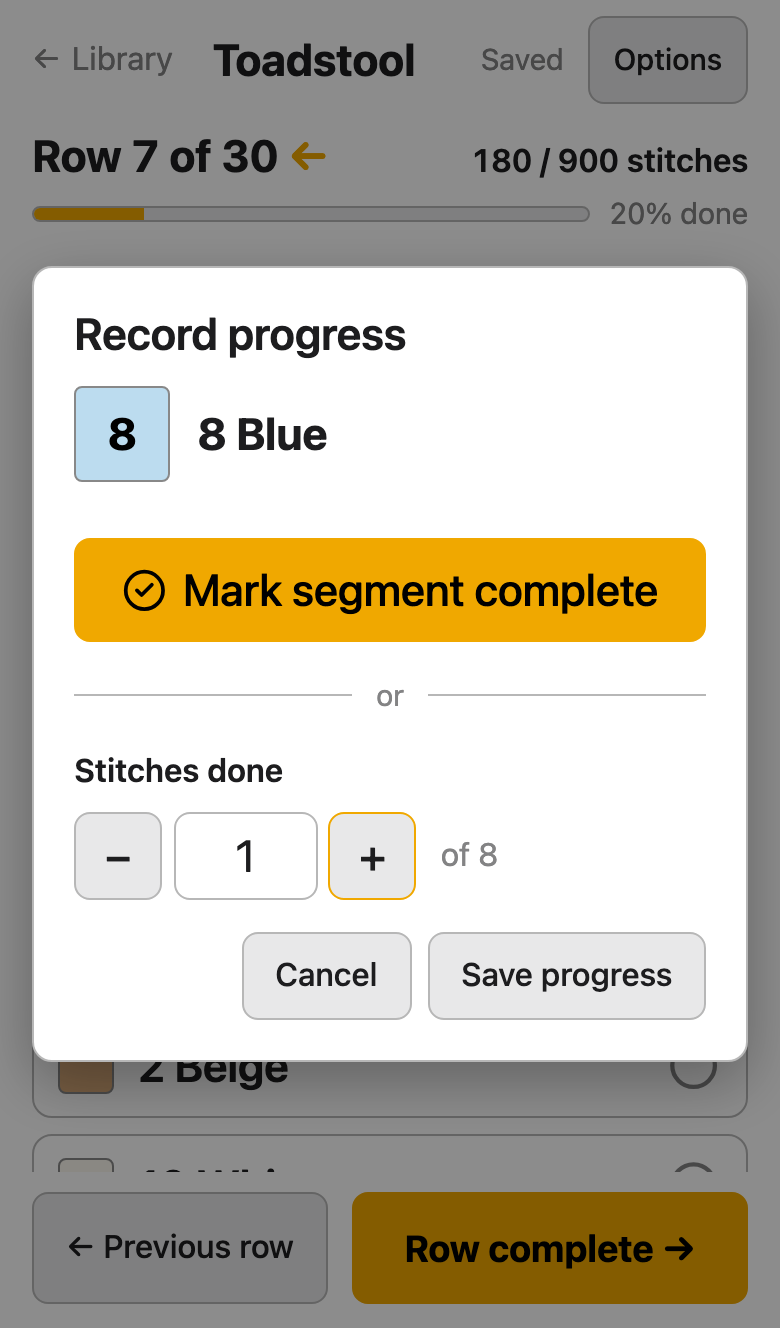
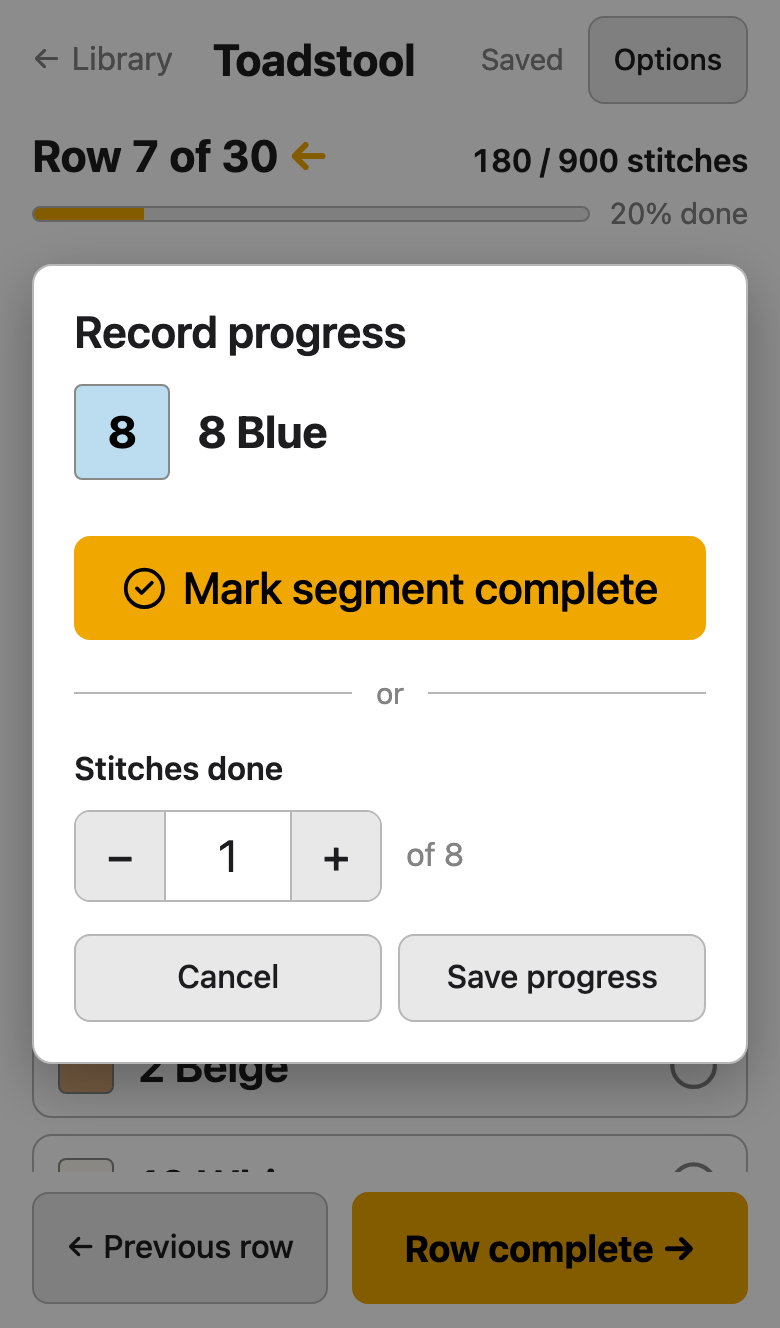
Work: Record progress count as one control; Cancel and Save across the width
The owner found the dialog lopsided (one full-width button over two
pushed right) and the count broken: the number field's own arrows
doubled − and +, and its outlines overlapped in a pill and a circle.

That pill came from Import's colour stepper: both used `.stepper`, and
Import's stylesheet, once loaded by an import, stays for the visit and
restyled this one. The count now has its own classes (segment__count):
−, the number and + in one outline with a divider between each, and no
native spin arrows. Cancel and Save progress share the width half and
half.

The new e2e test opens Import first, as a real visit does, and fails on
the previous commit (border radius 999px). rules.md#css-names records
the clash.

diff --git a/web/e2e/work-chips.spec.ts b/web/e2e/work-chips.spec.ts
@@ -145,6 +145,37 @@ test('the chips follow your place, and a new row starts at the top of the list',
   await expect(tick(page, 1)).toHaveAttribute('aria-pressed', 'false')
 })
 
+test('Record progress: one joined count without arrows of its own, and two buttons across the width', async ({ page }, testInfo) => {
+  // The Import screen's stylesheet loaded first, as after a real import: its colour
+  // stepper must not restyle this one.
+  await page.goto('/#/import')
+  await expect(page.getByRole('heading', { level: 1 })).toBeVisible()
+  await open(page, testInfo.outputPath('busy.alpha'))
+  await chips(page).nth(0).locator('.chip__open').click()
+  const dialog = page.getByRole('dialog', { name: 'Record progress' })
+  const look = await dialog.evaluate((d) => {
+    const css = (el: Element) => getComputedStyle(el)
+    const count = d.querySelector('input')!.parentElement!
+    const buttons = [...count.querySelectorAll('button')]
+    const [cancel, save] = [...d.querySelectorAll('.dialog__buttons button')].map((b) => b.getBoundingClientRect())
+    const body = d.querySelector('.segment__complete')!.getBoundingClientRect()
+    return {
+      countRadius: css(count).borderTopLeftRadius,
+      buttonRadii: buttons.map((b) => css(b).borderTopLeftRadius),
+      buttonBorders: buttons.map((b) => css(b).borderTopWidth),
+      appearance: css(d.querySelector('input')!).appearance,
+      widths: [cancel!.width, save!.width],
+      span: [cancel!.left - body.left, body.right - save!.right],
+    }
+  })
+  expect(look.countRadius).not.toBe('999px')
+  expect(look.buttonRadii).toEqual(['0px', '0px'])
+  expect(look.buttonBorders).toEqual(['0px', '0px'])
+  expect(look.appearance).toBe('textfield')
+  expect(Math.abs(look.widths[0]! - look.widths[1]!)).toBeLessThan(1)
+  expect(look.span.map((x) => Math.abs(x) < 1)).toEqual([true, true])
+})
+
 test('a tap on a stitch of the current row marks it and the stitches before it done', async ({ page }, testInfo) => {
   await open(page, testInfo.outputPath('busy.alpha'))
   // Every row the same height, so a stitch is found from the cell size alone.

diff --git a/web/src/ui/app.css b/web/src/ui/app.css
@@ -1213,29 +1213,61 @@ code {
   font-weight: 600;
 }
 
-.stepper {
-  display: flex;
-  gap: 0.35rem;
+/* The count: − and + joined to the number as one control, one outline with a line between
+   each part. Its own class names: Import's colour stepper is `.stepper`, and its sheet,
+   once loaded, would round this one into a pill. The number has no arrows of its own,
+   since − and + are those. */
+.segment__count {
+  display: inline-flex;
+  border: 1px solid var(--border);
+  border-radius: var(--radius-md);
+  overflow: hidden;
 }
 
-.stepper .button {
+.segment__count .button {
   width: var(--tap);
   padding: 0;
+  border: 0;
+  border-radius: 0;
   font-size: var(--text-lg);
 }
 
-.stepper input {
-  width: 4.5rem;
+.segment__count .button:hover:not(:disabled) {
+  background: var(--raised);
+}
+
+.segment__count input {
+  width: 4rem;
   min-height: var(--tap);
   padding: 0 0.5rem;
-  border: 1px solid var(--border);
-  border-radius: var(--radius-md);
+  border: 0;
+  border-inline: 1px solid var(--border);
+  border-radius: 0;
   background: var(--bg);
   color: var(--text);
   font: inherit;
   font-size: var(--text-lg);
   text-align: center;
   font-variant-numeric: tabular-nums;
+  appearance: textfield;
+  -moz-appearance: textfield;
+}
+
+.segment__count input::-webkit-inner-spin-button,
+.segment__count input::-webkit-outer-spin-button {
+  -webkit-appearance: none;
+  margin: 0;
+}
+
+/* Inside the outline, which clips anything outside it. */
+.segment__count :focus-visible {
+  outline-offset: -3px;
+}
+
+/* Cancel and Save progress share the dialog's width, as Mark segment complete has it. */
+.segment .dialog__buttons {
+  display: grid;
+  grid-template-columns: 1fr 1fr;
 }
 
 .segment__complete {

diff --git a/web/src/ui/work/SegmentDialog.tsx b/web/src/ui/work/SegmentDialog.tsx
@@ -68,7 +68,7 @@ export function SegmentDialog({
           <label htmlFor={`${id}-n`}>
             {units.charAt(0).toUpperCase() + units.slice(1)} done
           </label>
-          <div className="stepper">
+          <div className="segment__count">
             <button type="button" className="button" aria-label="One fewer" onClick={() => step(-1)} disabled={stitches <= 0}>
               −
             </button>

diff --git a/docs/dev/areas/work.md b/docs/dev/areas/work.md
@@ -179,8 +179,14 @@ Newest last, as they were built.
   - **The dialog leads with Mark segment complete**, the one primary button, with the
     focus (Return presses it, and a phone's keyboard no longer opens with the dialog).
     The stitch count is under an "or" rule, its label on a line of its own so "of N"
-    no longer wraps away on a phone; **Save progress** is an ordinary button beside
-    **Cancel**.
+    no longer wraps away on a phone; **Cancel** and **Save progress** are ordinary
+    buttons sharing the dialog's width half and half (the owner found two buttons
+    pushed to the right under one full-width one lopsided). The count is one control:
+    −, the number and + in one outline with a line between each, and the number has no
+    arrows of its own (− and + are those; two pairs of arrows read as two controls
+    mashed together). Its classes are `segment__count`: as `.stepper`, Import's colour
+    stepper restyled it into a pill once Import had been opened (see
+    [rules.md](../rules.md#css-names)).
   - **The chips follow your place.** On every progress change the list scrolls so the
     current segment is at its top, with up to 24 px of the one before it showing; at
     the first segment of a row it goes to the very top. It moves only when the list is

diff --git a/docs/dev/rules.md b/docs/dev/rules.md
@@ -190,6 +190,13 @@ break without noticing.
 - <a id="help-links"></a>**Link to the guide only through `src/app/help.ts`.** Renaming or moving a guide page,
   or a heading the app links to, breaks a link nobody sees until a user taps it;
   `tests/docs.test.ts` checks every entry in `HELP`, and only entries there.
+- <a id="css-names"></a>**Class names are global, even in a lazy stage's stylesheet.** Import, Design and
+  the rest load their CSS only when first opened, and it then stays for the whole visit,
+  so a class there also styles any other screen that uses the same name. Work's count in
+  Record progress once shared `.stepper` with Import's colour stepper, and became a pill
+  only after an import, which a fresh test never sees. Prefix a class with its screen or
+  component (`segment__count`, not `stepper`), and test a screen after visiting the
+  others when its look matters (`e2e/work-chips.spec.ts`).
 - <a id="known-failure"></a>**The Python suite has one known failure,** `test_edge_numbers_all_sides`: a 44×5 chart
   whose dimensions come out one column short. It's documented in `test_images/README.md`.
   Any other failure is new.
